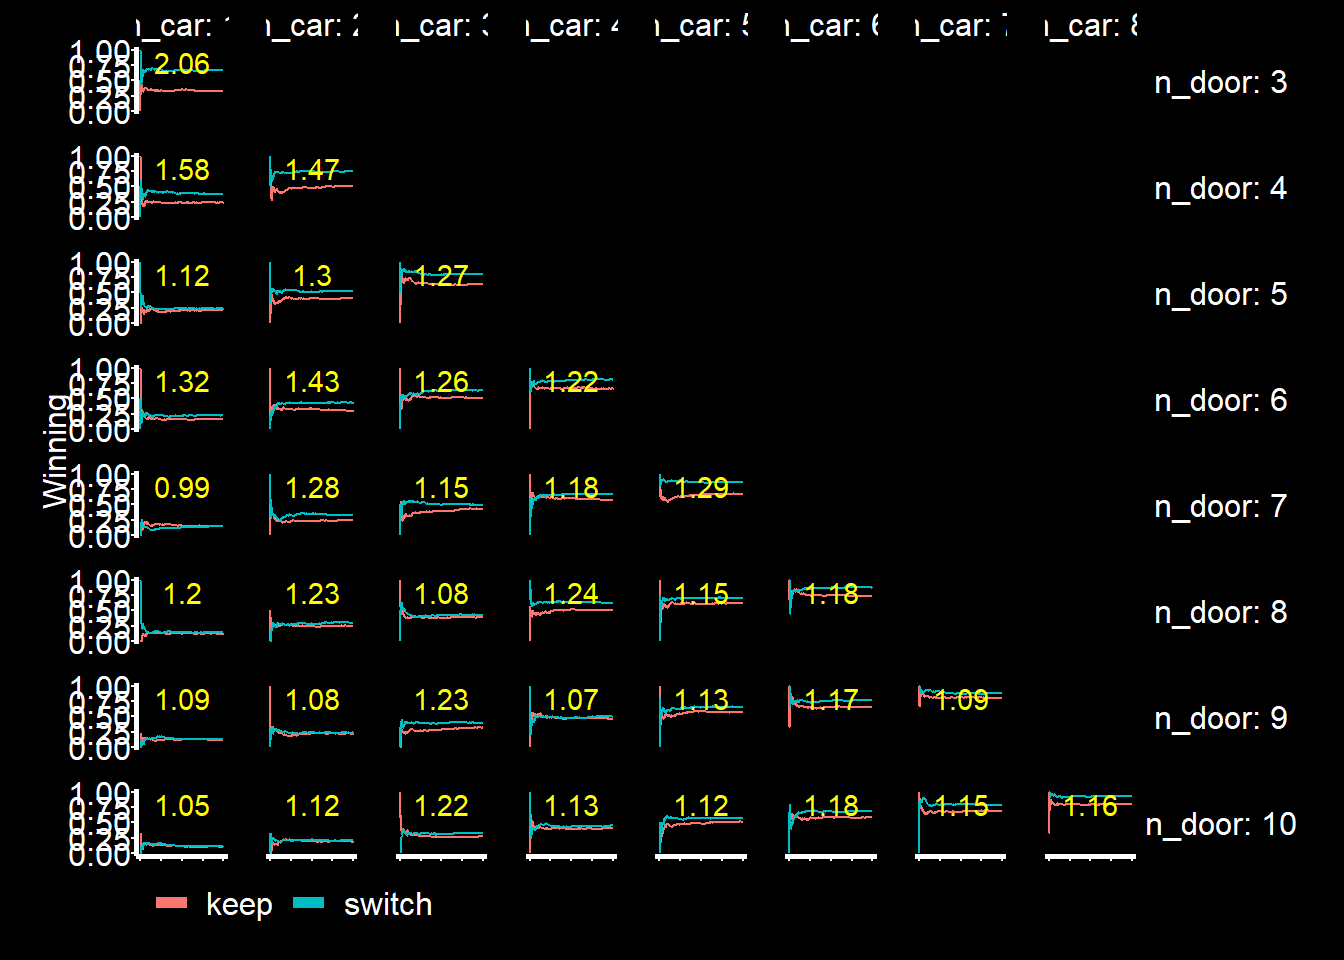
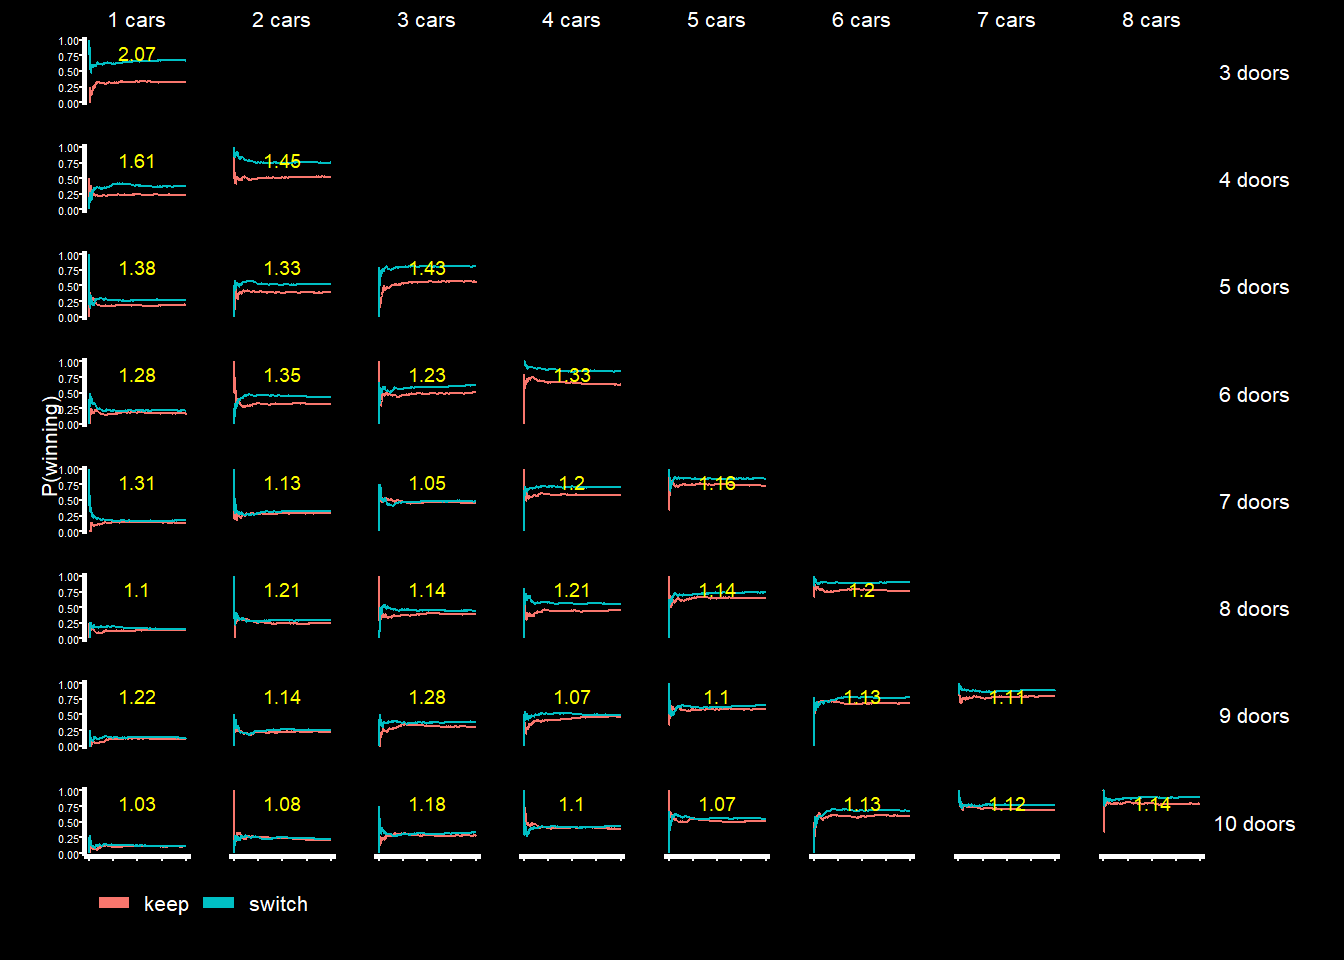
optimonty

diff --git a/content/post/2021-11-10-monty/index.en.html b/content/post/2021-11-10-monty/index.en.html
@@ -8,8 +8,6 @@ tags: ["R Markdown", "puzzles"]
 
 
 
-<div id="chorrrds" class="section level1">
-<h1>Chorrrds</h1>
 <div id="monty-hall-problem" class="section level2">
 <h2>Monty Hall Problem</h2>
 <ol style="list-style-type: decimal">
@@ -124,13 +122,15 @@ m &lt;- montyDoors(model=c(&quot;keep&quot;,&quot;switch&quot;), num = 1000, d=1
   #geom_jitter(aes(y=as.numeric(result),color=&quot;Individual&quot;),alpha=0.1, height = 0.02) +
   #geom_segment(aes(xend=run, y=as.numeric(result),yend=cum_win/run, color=result), alpha=0.4,  size=0.2) +
   geom_path(aes(y=cum_win/run, color=strategy)) +
-  facet_grid(n_door~n_car, labeller = label_both) +
+  facet_grid(factor(paste(n_door,&quot;doors&quot;),
+                    levels=paste(seq(3,10),&quot;doors&quot;))~paste(n_car,&quot;cars&quot;)) +
   labs(color=&quot;&quot;, linetype=&quot;&quot;) +
   theme_presentation() +
-  theme(legend.box=&quot;vertical&quot;, legend.direction = &quot;horizontal&quot;, legend.justification = &quot;left&quot;, legend.box.just = &quot;left&quot;, legend.spacing = unit(-1,&quot;lines&quot;), axis.title.x=element_blank(), axis.text.x = element_blank()) +
-  ylab(&quot;Winning&quot;) +
+  theme(legend.box=&quot;vertical&quot;, legend.direction = &quot;horizontal&quot;, legend.justification = &quot;left&quot;, legend.box.just = &quot;left&quot;, legend.spacing = unit(-1,&quot;lines&quot;), axis.title.x=element_blank(), axis.text.x = element_blank(),
+        axis.text.y=element_text(size=4)) +
+  ylab(&quot;P(winning)&quot;) +
   guides(colour = guide_legend(override.aes = list(alpha = 1, size=2))) +
-  geom_text(data=m[!is.na(m$final),], aes(x=max(m$run)/2, y=0.8, label=final), x=max(m$run,na.rm=T)/ 2, y=0.8, color=&quot;yellow&quot;) </code></pre>
+  geom_text(data=m[!is.na(m$final),], aes(x=max(m$run)/2, y=0.8, label=final), x=max(m$run,na.rm=T)/ 2, y=0.8, 
+            color=&quot;yellow&quot;, size=2.5) </code></pre>
 <p><img src="{{< blogdown/postref >}}index.en_files/figure-html/unnamed-chunk-1-1.png" width="672" /></p>
-</div>
 </div>
